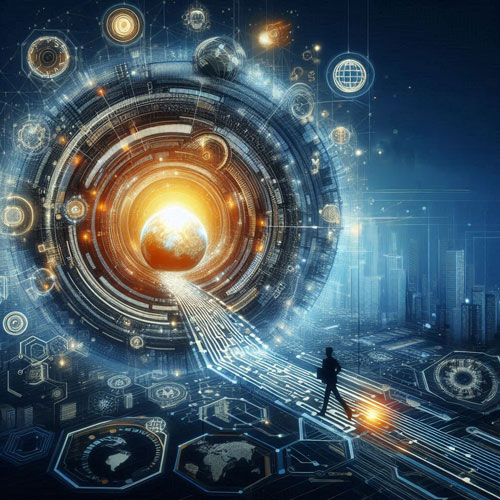
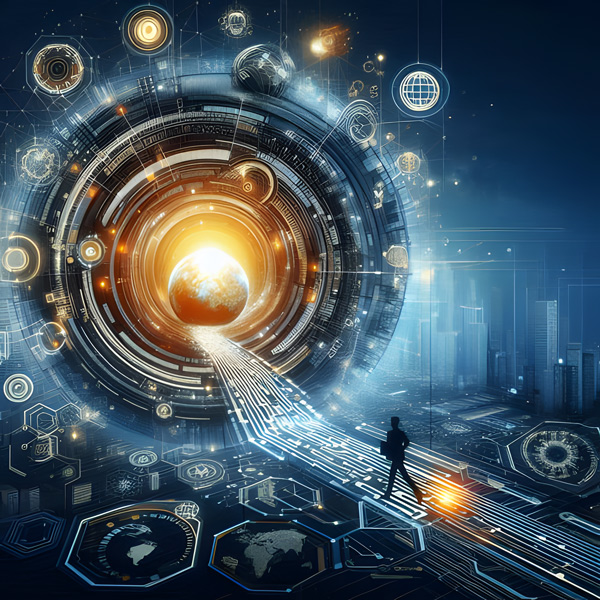
update vission mision image

diff --git a/contact-us.html b/contact-us.html
@@ -231,8 +231,7 @@
                <div class="row vertical-column-gap-lg">
                   <div class="col-12 col-lg-6 col-xxl-5">
                      <div class="pt-120">
-                        <span class="text-xl d-block mt-8 text-white text-capitalize fm fw-5 cur-lg">Let our specialists
-                           solve the problems and tackle the challenges that hold you from conquering the world.</span>
+                        <span class="text-xl d-block mt-8 text-white text-capitalize fm fw-5 cur-lg">We're Your Catalyst for Innovation and Rapid Growth</span>
                         <div class="mt-60 foot-group">
                            <div class="anime">
                               <span class="foot-fade"></span>

diff --git a/services.html b/services.html
@@ -381,8 +381,7 @@
                <div class="row vertical-column-gap-lg">
                   <div class="col-12 col-lg-6 col-xxl-5">
                      <div class="pt-120">
-                        <span class="text-xl d-block mt-8 text-white text-capitalize fm fw-5 cur-lg">Let our specialists
-                           solve the problems and tackle the challenges that hold you from conquering the world.</span>
+                        <span class="text-xl d-block mt-8 text-white text-capitalize fm fw-5 cur-lg">We're Your Catalyst for Innovation and Rapid Growth</span>
                         <div class="mt-60 foot-group">
                            <div class="anime">
                               <span class="foot-fade"></span>

diff --git a/index.html b/index.html
@@ -664,8 +664,7 @@
             <div class="row vertical-column-gap-lg">
                <div class="col-12 col-lg-6 col-xxl-5">
                   <div class="pt-120">
-                     <span class="text-xl d-block mt-8 text-white text-capitalize fm fw-5 cur-lg">Let our specialists
-                        solve the problems and tackle the challenges that hold you from conquering the world.</span>
+                     <span class="text-xl d-block mt-8 text-white text-capitalize fm fw-5 cur-lg">We're Your Catalyst for Innovation and Rapid Growth</span>
                      <div class="mt-60 foot-group">
                         <div class="anime">
                            <span class="foot-fade"></span>

diff --git a/assets/css/main.css b/assets/css/main.css
@@ -2211,6 +2211,7 @@ span {
 }
 .footer .footer__thumb img {
   min-height: 300px;
+  filter: hue-rotate(162deg);
 }
 .footer .btn-anim {
   margin-left: auto;
@@ -2254,7 +2255,7 @@ span {
   background-image: linear-gradient(to right, rgba(255, 255, 255, 0.3137254902) 50%, transparent 50%);
 }
 .footer .anime span:nth-of-type(6) {
-  background-image: linear-gradient(to right, rgba(255, 255, 255, 0.5019607843) 50%, transparent 50%);
+  background-image: linear-gradient(to right, rgba(255, 255, 255, 0.5419607843) 50%, transparent 50%);
 }
 .footer ul li {
   margin-bottom: 30px;
@@ -2319,6 +2320,7 @@ span {
   z-index: -1;
   max-width: 4vw;
   min-width: 40px;
+  filter: hue-rotate(162deg);
 }
 
 /* ==== 
